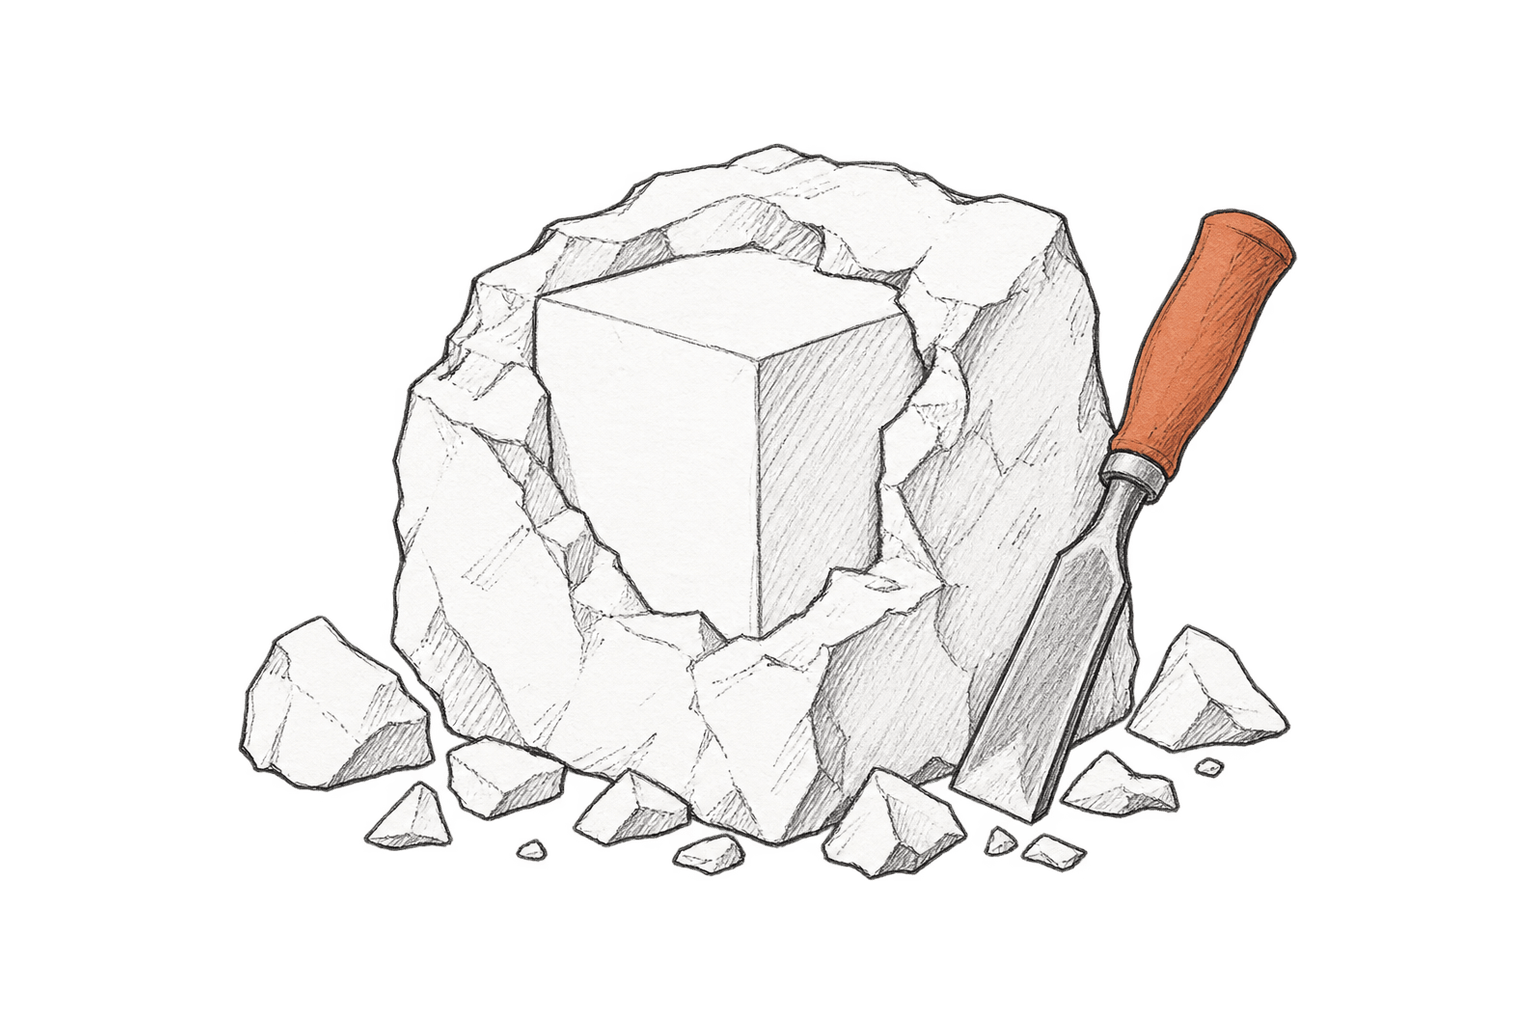
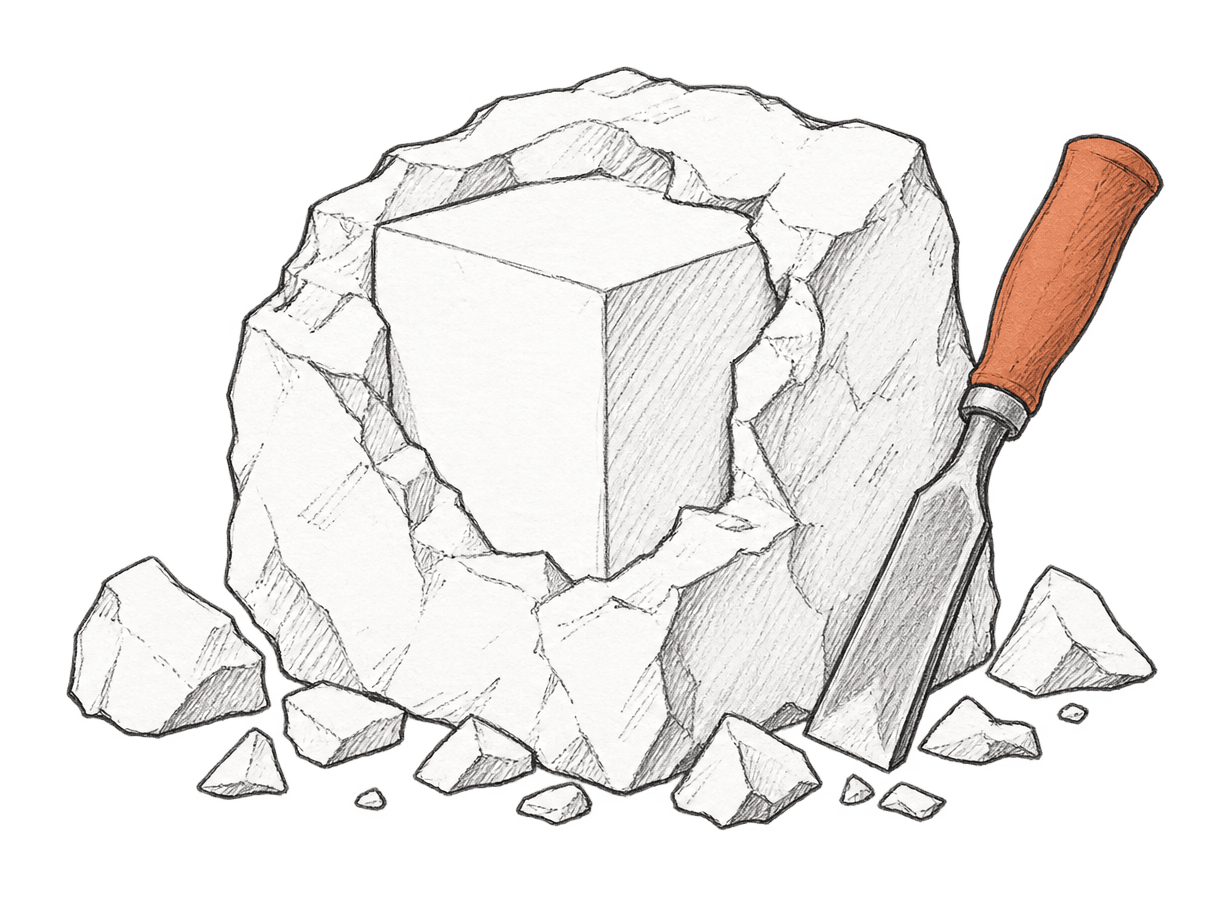
feat: lay out post lists as a masonry of covers trimmed to their drawings
- Trim each cover to its drawing so cards take the drawing's own height
- Write a padded 1200x630 og.jpg per cover and use it as the social image
- Pack /blog and /tags cards into CSS columns and drop the featured card
- Require palette covers with a social image, so a raw download fails
- Update the skill, DESIGN.md and CLAUDE.md to the new contract

diff --git a/tests/illustrate-post.test.ts b/tests/illustrate-post.test.ts
@@ -3,14 +3,16 @@ import test from 'node:test';
 import sharp from 'sharp';
 
 import {
-  HEIGHT,
-  MARGIN_X,
-  MARGIN_Y,
-  WIDTH,
+  PAD,
   contactSheet,
   normalize,
+  socialImage,
   subjectBox,
 } from '../.claude/skills/illustrate-post/prepare.mjs';
+
+// image_gen answers a 3:2 request with 1536x1024.
+const WIDTH = 1536;
+const HEIGHT = 1024;
 
 type Box = { left: number; top: number; width: number; height: number };
 
@@ -40,38 +42,51 @@ async function generated(subject?: Box): Promise<Buffer> {
     .toBuffer();
 }
 
-const near = (actual: number, expected: number) =>
-  assert.ok(Math.abs(actual - expected) <= 2, `${actual} is not within 2px of ${expected}`);
-
 test('finds the drawing, not the alpha noise around it', async () => {
   const box = { left: 40, top: 300, width: 600, height: 200 };
   assert.deepEqual(await subjectBox(await generated(box)), box);
 });
 
-test('centres a drawing the model pushed against the edge', async () => {
+test('trims the cover to the drawing with an even margin', async () => {
   // Touching the left edge and squeezed to the top, as the 3:2 probe framed it.
   const output = await normalize(await generated({ left: 0, top: 10, width: 900, height: 300 }));
-  const { width, height } = await sharp(output).metadata();
-  assert.deepEqual([width, height], [WIDTH, HEIGHT]);
+  const pad = Math.round(900 * PAD);
+  const meta = await sharp(output).metadata();
+  assert.deepEqual([meta.width, meta.height], [900 + 2 * pad, 300 + 2 * pad]);
+  assert.ok(meta.isPalette, 'the cover is palette-compressed');
   assert.equal((await sharp(output).stats()).isOpaque, false);
-
-  const box = await subjectBox(output);
-  assert.ok(box);
-  // 900x300 fills the 1228x738 area by width: 1228x409, centred.
-  near(box.left, MARGIN_X);
-  near(box.left + box.width, WIDTH - MARGIN_X);
-  near(box.top + box.height / 2, HEIGHT / 2);
+  assert.deepEqual(await subjectBox(output), { left: pad, top: pad, width: 900, height: 300 });
 });
 
-test('keeps a tall drawing inside the band the OG crop keeps', async () => {
-  const output = await normalize(
-    await generated({ left: 700, top: 0, width: 100, height: HEIGHT })
-  );
-  const box = await subjectBox(output);
-  assert.ok(box);
-  // A 1200x630 cover crop of 1536x1024 keeps rows 109 to 915.
-  near(box.top, MARGIN_Y);
-  assert.ok(box.top >= 109 && box.top + box.height <= 915, JSON.stringify(box));
+test('fits the whole drawing inside a 1200x630 social image', async () => {
+  // A tall drawing is the case a plain cover crop would cut.
+  const cover = await normalize(await generated({ left: 700, top: 0, width: 100, height: HEIGHT }));
+  const { data, info } = await sharp(await socialImage(cover))
+    .raw()
+    .toBuffer({ resolveWithObject: true });
+  assert.deepEqual([info.width, info.height], [1200, 630]);
+
+  // The drawing is whatever differs from #f4f2ee, the light page colour.
+  let left = info.width;
+  let top = info.height;
+  let right = -1;
+  let bottom = -1;
+  for (let y = 0; y < info.height; y++) {
+    for (let x = 0; x < info.width; x++) {
+      const p = (y * info.width + x) * info.channels;
+      const off =
+        Math.abs(data[p] - 0xf4) + Math.abs(data[p + 1] - 0xf2) + Math.abs(data[p + 2] - 0xee);
+      if (off <= 24) continue;
+      left = Math.min(left, x);
+      right = Math.max(right, x);
+      top = Math.min(top, y);
+      bottom = Math.max(bottom, y);
+    }
+  }
+  // Scaled whole, the 100x1024 drawing keeps its proportions; a crop would not.
+  const ratio = (right - left + 1) / (bottom - top + 1);
+  assert.ok(Math.abs(ratio - 100 / 1024) < 0.01, `drawing ratio ${ratio}`);
+  assert.ok(top > 0 && bottom < info.height - 1, `drawing touches an edge: ${top}..${bottom}`);
 });
 
 test('rejects an opaque image', async () => {
@@ -87,9 +102,14 @@ test('rejects an image with nothing but noise', async () => {
   await assert.rejects(normalize(await generated()), /no subject/);
 });
 
-test('lays the variants out side by side on both backgrounds', async () => {
-  const cover = await normalize(await generated({ left: 400, top: 300, width: 600, height: 400 }));
-  const sheet = await contactSheet([1, 2, 3].map((n) => ({ n, cover })));
+test('lays covers of any shape side by side on both backgrounds', async () => {
+  const wide = await normalize(await generated({ left: 100, top: 400, width: 1200, height: 300 }));
+  const tall = await normalize(await generated({ left: 700, top: 100, width: 200, height: 800 }));
+  const sheet = await contactSheet([
+    { n: 1, cover: wide },
+    { n: 2, cover: tall },
+    { n: 3, cover: wide },
+  ]);
   const { width, height } = await sharp(sheet).metadata();
   assert.deepEqual([width, height], [1504, 700]);
 });

diff --git a/tests/post-covers.test.ts b/tests/post-covers.test.ts
@@ -4,9 +4,10 @@ import { fileURLToPath } from 'node:url';
 import test from 'node:test';
 import sharp from 'sharp';
 
-// Covers come from the illustrate-post skill, whose prepare.mjs writes every
-// master transparent and at 1536x1024. This catches a file that skipped it,
-// such as a hand download from ChatGPT, and a re-run that added a second line.
+// Covers come from the illustrate-post skill, whose prepare.mjs trims every
+// cover to its drawing, palette-compresses it and writes its social image.
+// This catches a file that skipped it, such as a hand download from ChatGPT
+// (truecolor, no social image), and a re-run that added a second line.
 const postsDir = new URL('../content/posts/', import.meta.url);
 
 async function coverLines() {
@@ -24,14 +25,25 @@ test('every post declares exactly one cover', async () => {
   }
 });
 
-test('every cover is a transparent 1536x1024 master', async () => {
+test('every cover went through prepare.mjs and has its social image', async () => {
   for (const { file, lines } of await coverLines()) {
     if (lines.length === 0) continue;
+    const id = file.replace(/\.mdx?$/, '');
     const relative = lines[0].slice('cover: '.length).trim();
+    // The post page finds the social image by this name.
+    assert.equal(relative, `../../src/assets/images/covers/${id}.png`, `${file}: cover path`);
     const path = fileURLToPath(new URL(relative, new URL(file, postsDir)));
-    const { width, height } = await sharp(path).metadata();
-    assert.deepEqual([width, height], [1536, 1024], `${file}: cover is ${width}x${height}`);
+
+    const meta = await sharp(path).metadata();
+    assert.ok(meta.isPalette, `${file}: cover is not palette-compressed; run prepare.mjs`);
     assert.equal((await sharp(path).stats()).isOpaque, false, `${file}: cover is opaque`);
+
+    const social = await sharp(path.replace(/\.png$/, '.og.jpg')).metadata();
+    assert.deepEqual(
+      [social.format, social.width, social.height],
+      ['jpeg', 1200, 630],
+      `${file}: social image`
+    );
   }
 });
 

diff --git a/DESIGN.md b/DESIGN.md
@@ -267,24 +267,33 @@ Every post has a cover illustration, made with the `illustrate-post` skill.
 
 - **Style:** a loose hand-drawn pencil sketch of one metaphor object.
   Greyscale, every object filled with flat white, terracotta `#c25a34` as the
-  only chromatic accent on one or two small elements, transparent background,
-  3:2 (1536×1024). No people, no text, no logos.
+  only chromatic accent on one or two small elements, transparent background.
+  No people, no text, no logos. The file is trimmed to its drawing with an
+  even margin, so every cover has its own proportions (a tall seedling, a
+  wide notebook).
 - **The accent is baked in.** A cover keeps `#c25a34` in both themes, next to
   the dark theme's `#e07a52`. Covers are content, like a photo, not UI, so the
   per-theme accent rule does not apply to them. The author compared the two
   side by side and kept it.
 - **Shown as is in both themes.** The white fills read on the dark background
   like paper cut-outs; no filter, no backing tile.
-- **Never cropped on site.** Size the box in CSS and use `object-contain`; the
-  transparent margins are invisible. Never give a cover `<Image>` both `width`
-  and `height`: sharp would crop it at build time.
+- **Never cropped on site.** In a card the cover spans the card's width at its
+  own height; elsewhere size the box in CSS and use `object-contain`. Never
+  give a cover `<Image>` both `width` and `height`: sharp would crop it at
+  build time.
 - **Decorative.** `alt=""` everywhere: the title always sits next to it.
-- **Where:** above the title in post cards (to the right in the featured card),
-  to the right of the homepage Writing lead and inside its link, and to the
-  right of the title in the post header (above it on mobile, height capped).
-- **Social image, the one crop:** the post page renders a 1200×630 JPEG cover
-  crop flattened onto `#f4f2ee`. The skill's normalize step keeps a 14% margin
-  top and bottom so the crop never cuts the drawing.
+- **Where:** in post cards, full width directly above the title, so drawing
+  and title read as one unit; to the right of the homepage Writing lead and
+  inside its link; to the right of the title in the post header (above it on
+  mobile, height capped).
+- **Post lists are a masonry of equal cards.** `/blog` and `/tags/<tag>` pack
+  cards into CSS columns (one, two, three by width), so card heights follow
+  their covers. Columns read top to bottom, so on desktop the order runs down
+  each column; native `display: grid-lanes` would keep row order but is not in
+  Chrome yet (checked in 155). There is no featured lead card.
+- **Social image:** a separate 1200×630 JPEG the skill writes next to each
+  cover (`<post-id>.og.jpg`): the whole drawing inside a 10% margin on
+  `#f4f2ee`, so no platform crop reaches it.
 
 ## Interaction
 
@@ -433,8 +442,8 @@ scripts — no React/Motion in this project.
 - Default to `.container` (~1100px), including for the blog post article; use
   `.container-prose` (~680px) only for `/about` reading text (bio, work
   history).
-- Render a post in a list with `PostCard.astro` (`featured` for the lead card)
-  rather than hand-rolling another row layout.
+- Render a post in a list with `PostCard.astro` inside the same CSS-columns
+  masonry rather than hand-rolling another layout.
 - Use `--color-accent` for fills and `--color-accent-text` for small accent
   text/links (AA).
 - Keep the blog post body at the `prose` step (19px / 1.75); supporting text at

diff --git a/CLAUDE.md b/CLAUDE.md
@@ -54,7 +54,7 @@ Put them in `src/assets/images/` and reference them with a relative path from th
 
 ### Post covers
 
-Every post has a cover illustration: `cover: ../../src/assets/images/covers/<post-id>.png` in its frontmatter. Make one with the `illustrate-post` project skill (`.claude/skills/illustrate-post/`), which generates three variants through Codex and lets the author pick; never hand-edit a cover file. The schema keeps `cover` optional so a draft renders, and `tests/post-covers.test.ts` requires exactly one cover per post and checks every cover is a transparent 1536×1024 master. How covers are shown is in the Illustrations section of [`DESIGN.md`](./DESIGN.md). The post page also turns the cover into the post's social image (`og:image`, `twitter:image`, JSON-LD `image`): a 1200×630 JPEG crop passed through `Layout` to `Head` as `image`; pages without one keep the author photo.
+Every post has a cover illustration: `cover: ../../src/assets/images/covers/<post-id>.png` in its frontmatter. Make one with the `illustrate-post` project skill (`.claude/skills/illustrate-post/`), which generates three variants through Codex and lets the author pick; never hand-edit a cover file. The schema keeps `cover` optional so a draft renders, and `tests/post-covers.test.ts` requires exactly one cover per post and checks every cover went through the skill's `prepare.mjs` (palette-compressed, transparent, trimmed to its drawing, named after the post, with its social image next to it). How covers are shown is in the Illustrations section of [`DESIGN.md`](./DESIGN.md). Each cover has a 1200×630 `<post-id>.og.jpg` beside it, written by the skill; the post page picks it up by name for `og:image`, `twitter:image` and JSON-LD `image`, passing it through `Layout` to `Head` as `image`; pages without one keep the author photo.
 
 ## Components
 
@@ -107,7 +107,7 @@ Current order: Hero(default) → Selected work/Projects(default) → Writing(sub
 
 - Two container tracks in `global.css`: `.container` (wide, `--container-wide: 1100px`) is the default and covers header/footer, all sections, the post index pages (`/blog`, `/tags`, `/tags/<tag>`) and the blog post article; `.container-prose` (tight reading column, `--container-prose: 680px`) wraps only the `/about` bio and work history; the homepage intro reuses the same measure through `--container-prose` on its `.intro` block. The wide post body is a deliberate owner choice — don't narrow it back. (`.container-content`, the old 820px track, was removed once nothing used it.)
 - Post images are capped at 820px and centred inside the wide text column (`.prose-custom p > img` in `global.css`) so a screenshot stays a figure rather than a full-bleed banner.
-- Posts in a list render through `src/components/PostCard.astro` (pass `featured` for the lead card). Both `/blog` and `/tags/<tag>` use it — don't hand-roll a second row layout.
+- Posts in a list render through `src/components/PostCard.astro`, packed into a CSS-columns masonry (`columns-1 md:columns-2 lg:columns-3`) of equal cards; there is no featured lead card. Both `/blog` and `/tags/<tag>` use it — don't hand-roll a second layout.
 - Font stack (configured via Astro's top-level `fonts` config in `astro.config.js`): DM Sans (headings and body, via both `--font-display` and `--font-body`), JetBrains Mono (code/mono accents). Only two families load; headings separate from body by size, weight and tracking, not by a second face.
 
 ## Key Patterns

diff --git a/.claude/skills/illustrate-post/SKILL.md b/.claude/skills/illustrate-post/SKILL.md
@@ -75,9 +75,13 @@ bright halo. Look only at the `*.light.png` / `*.dark.png` / `sheet.png` files
 
     ```bash
     cp "$RUN/variant-N.cover.png" src/assets/images/covers/<post-id>.png
+    cp "$RUN/variant-N.og.jpg" src/assets/images/covers/<post-id>.og.jpg
     ```
 
-    Set `cover: ../../src/assets/images/covers/<post-id>.png` in the post's
+    The cover is trimmed to its drawing, so it has the drawing's own
+    proportions; the `.og.jpg` is its 1200×630 social image, which the post
+    page finds by the same name. Set
+    `cover: ../../src/assets/images/covers/<post-id>.png` in the post's
     frontmatter, after `tags:`. If a `cover:` line exists, replace it; a post
     has exactly one. Then run `npm test`.
 
